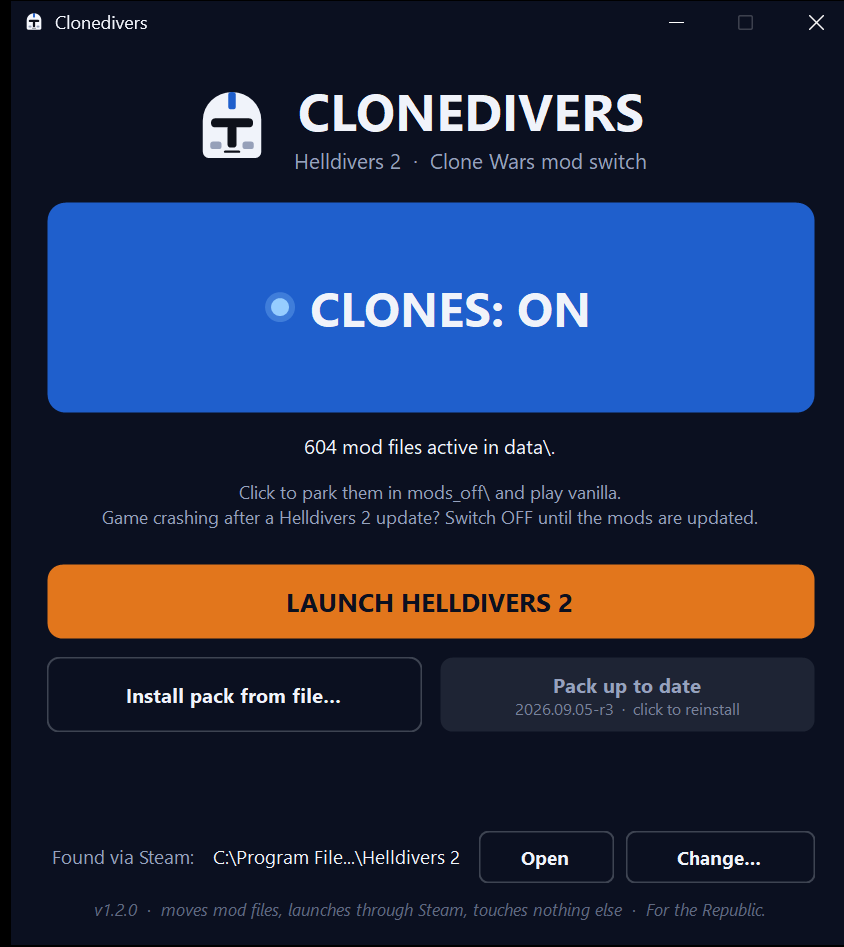
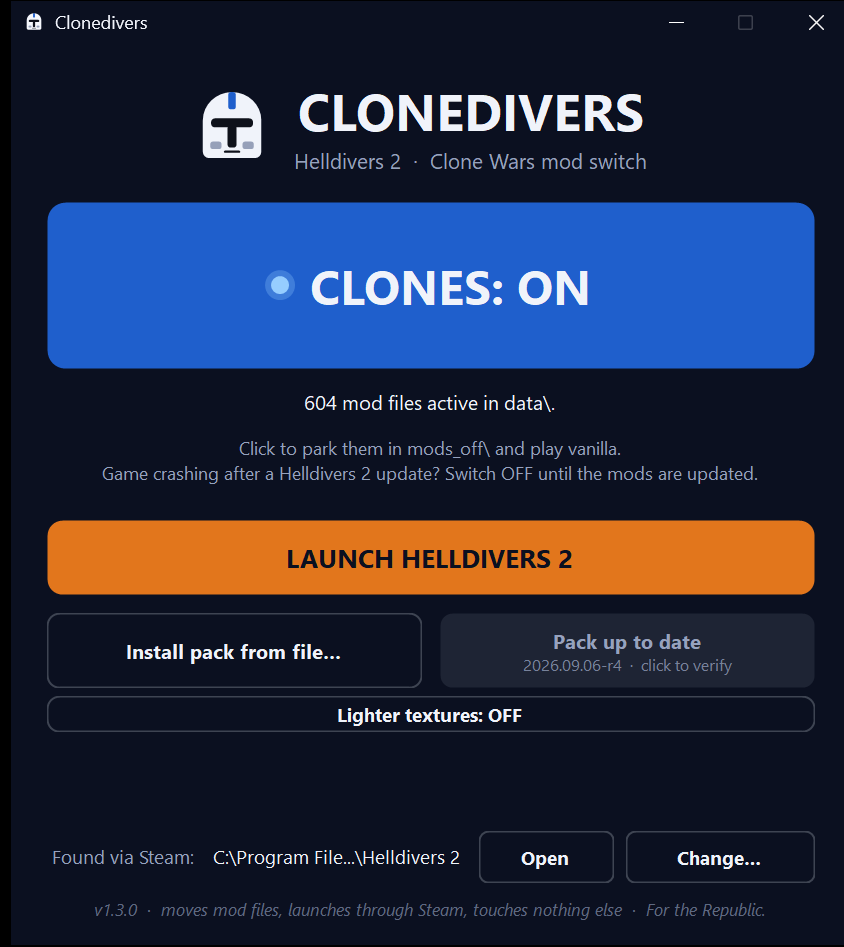
1.3.1: Download pack size counts only the files this friend would install; 1.3.0 screenshots; releaser ignores docs-in-progress

Changed region(s): [[0.0308, 0.2756, 0.9858, 0.7656]]

diff --git a/Clonedivers/Program.cs b/Clonedivers/Program.cs
@@ -1991,7 +1991,7 @@ public sealed class MainForm : Form
         {
             downloadArmed = canInstall;
             var installed = settings.InstalledPackVersion;
-            var size = Pack.FormatBytes(pack!.TotalSize);
+            var size = Pack.FormatBytes(WantedFiles(pack!).Sum(f => f.Size));   // what THIS friend would install with their toggles, not every variant in the manifest
             var notes = string.IsNullOrWhiteSpace(pack.Notes) ? pack.Name : pack.Name + "\n" + pack.Notes;
             var anyFiles = active + parked > 0;
             if (!anyFiles)

diff --git a/docs/releases/v1.3.1.md b/docs/releases/v1.3.1.md
@@ -1,0 +1,6 @@
+**How to update:** if you already run 1.3.0, the app offers this update itself: click the "Clonedivers 1.3.1 is available" line under the pack buttons. Otherwise download **Clonedivers.exe** below and replace your old one.
+
+**Fixed in 1.3.1**
+- The size shown under **Download pack** now counts only what you would actually install with your toggles (8.8 GB for the standard pack), not every optional variant the pack carries.
+
+Everything else is 1.3.0: small incremental pack updates, the self-updater, the game-update warning, and the **Lighter textures** toggle for 16 GB PCs.
